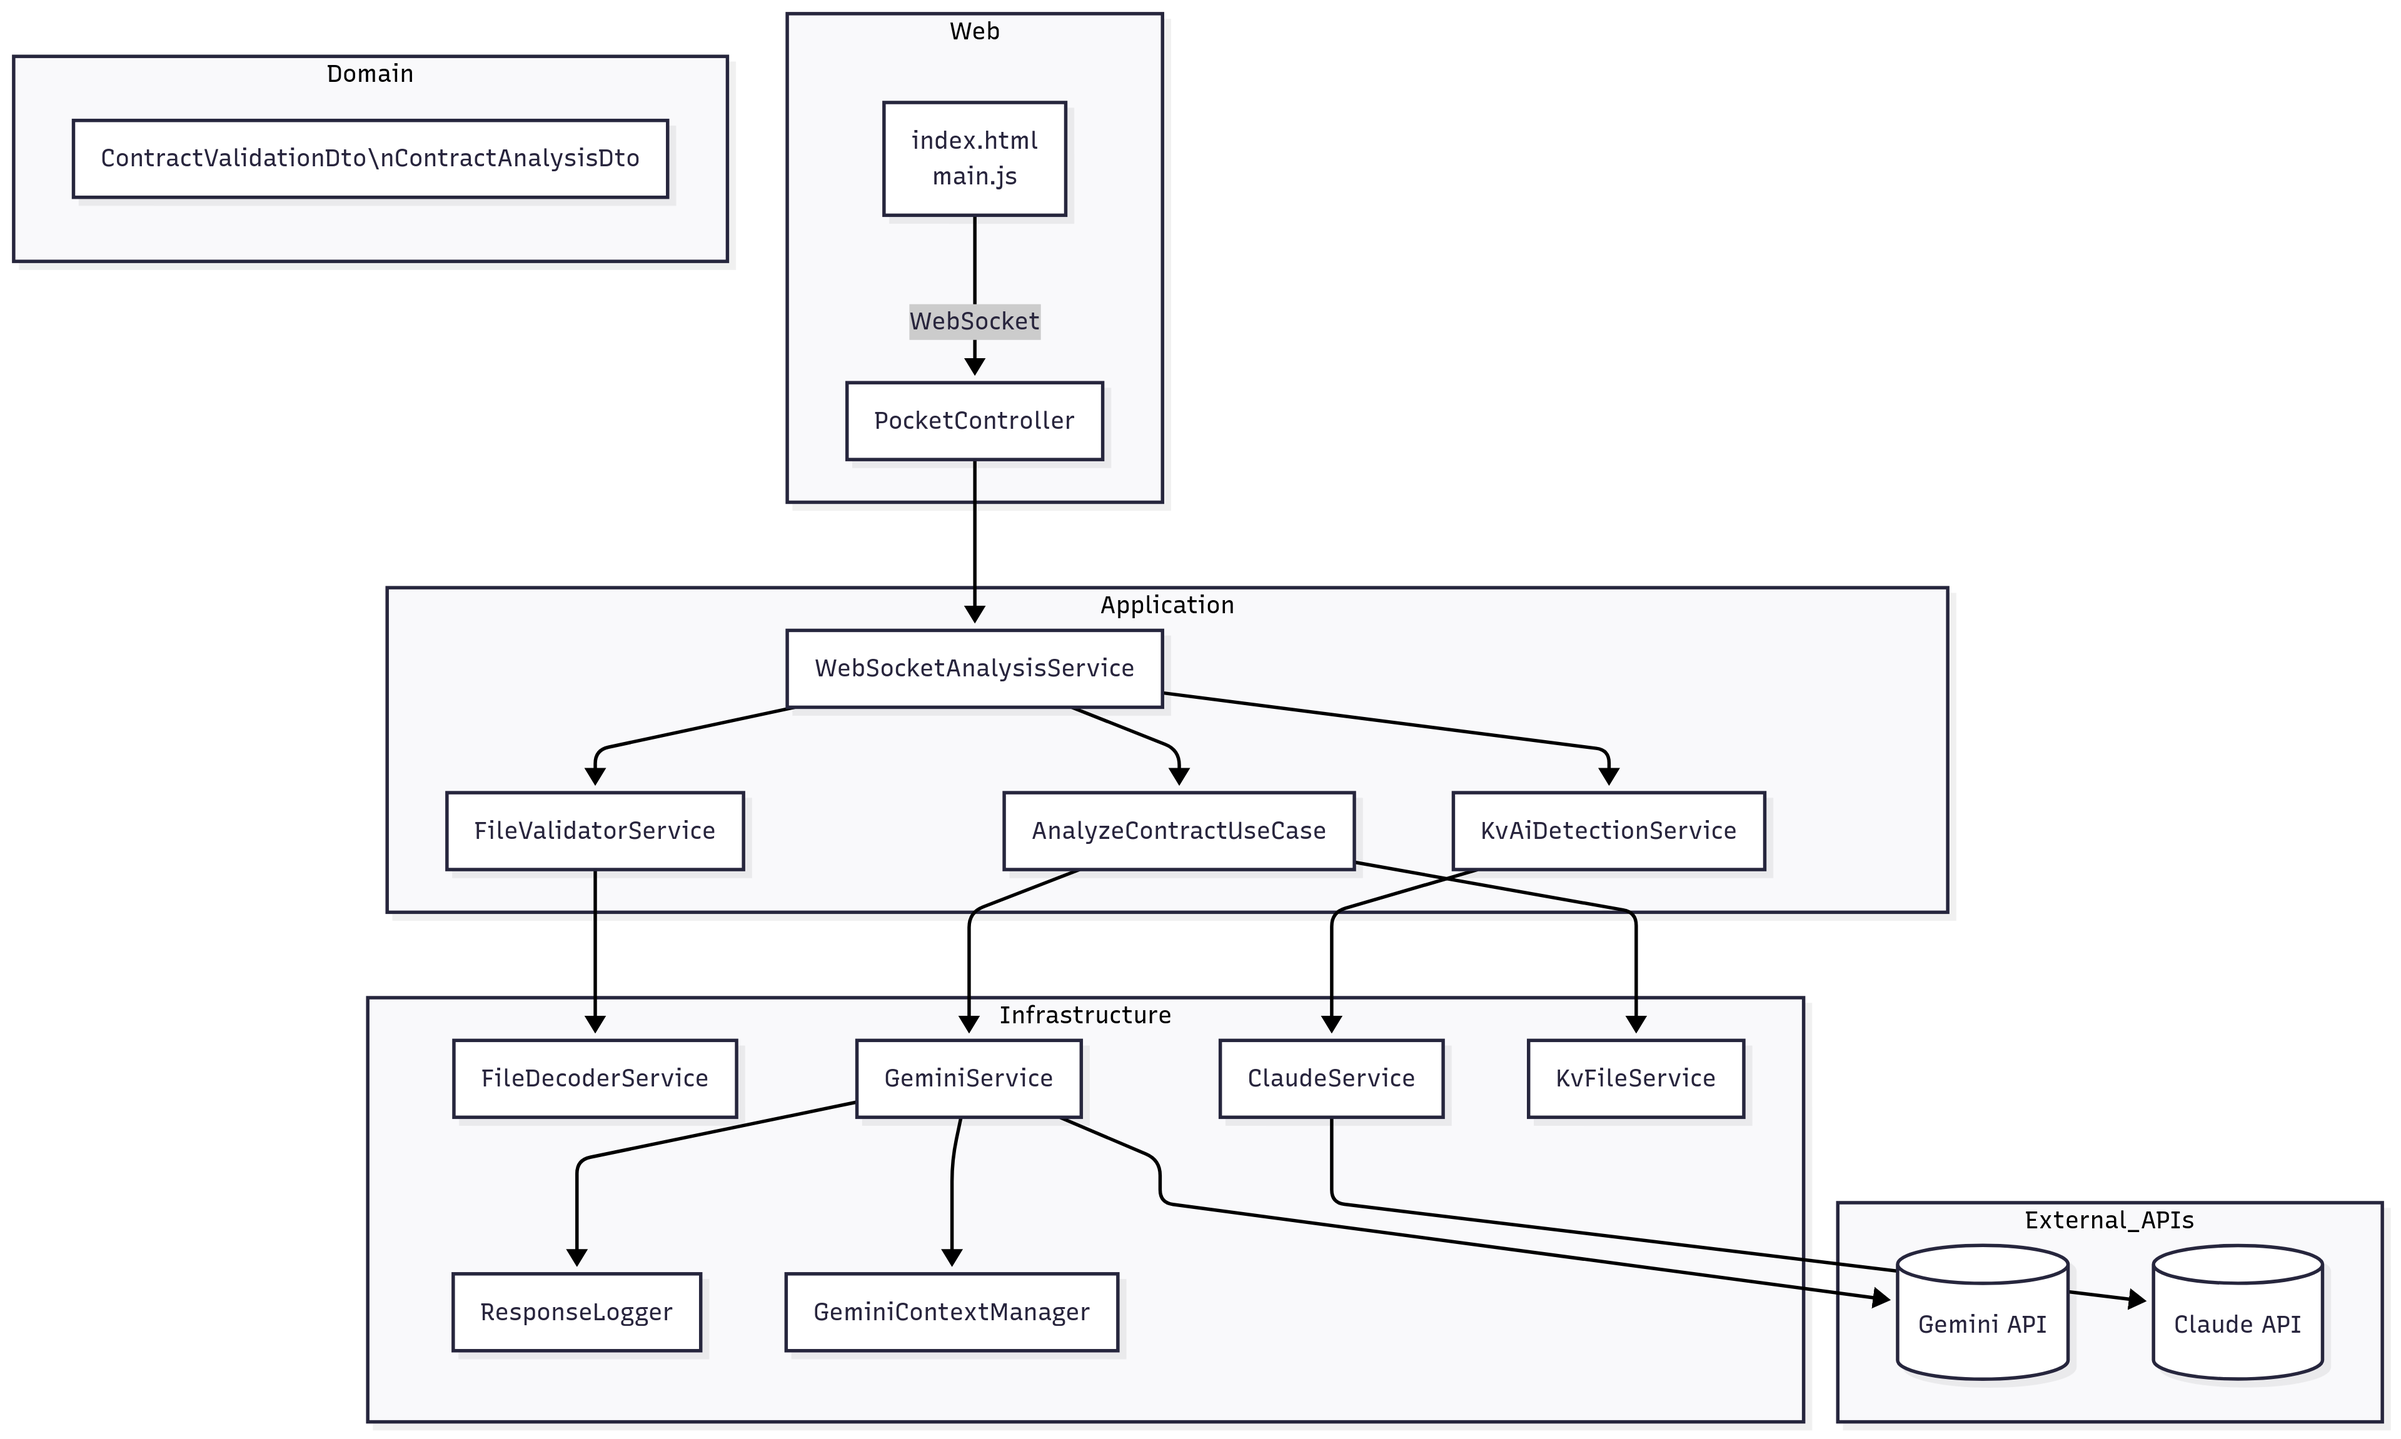
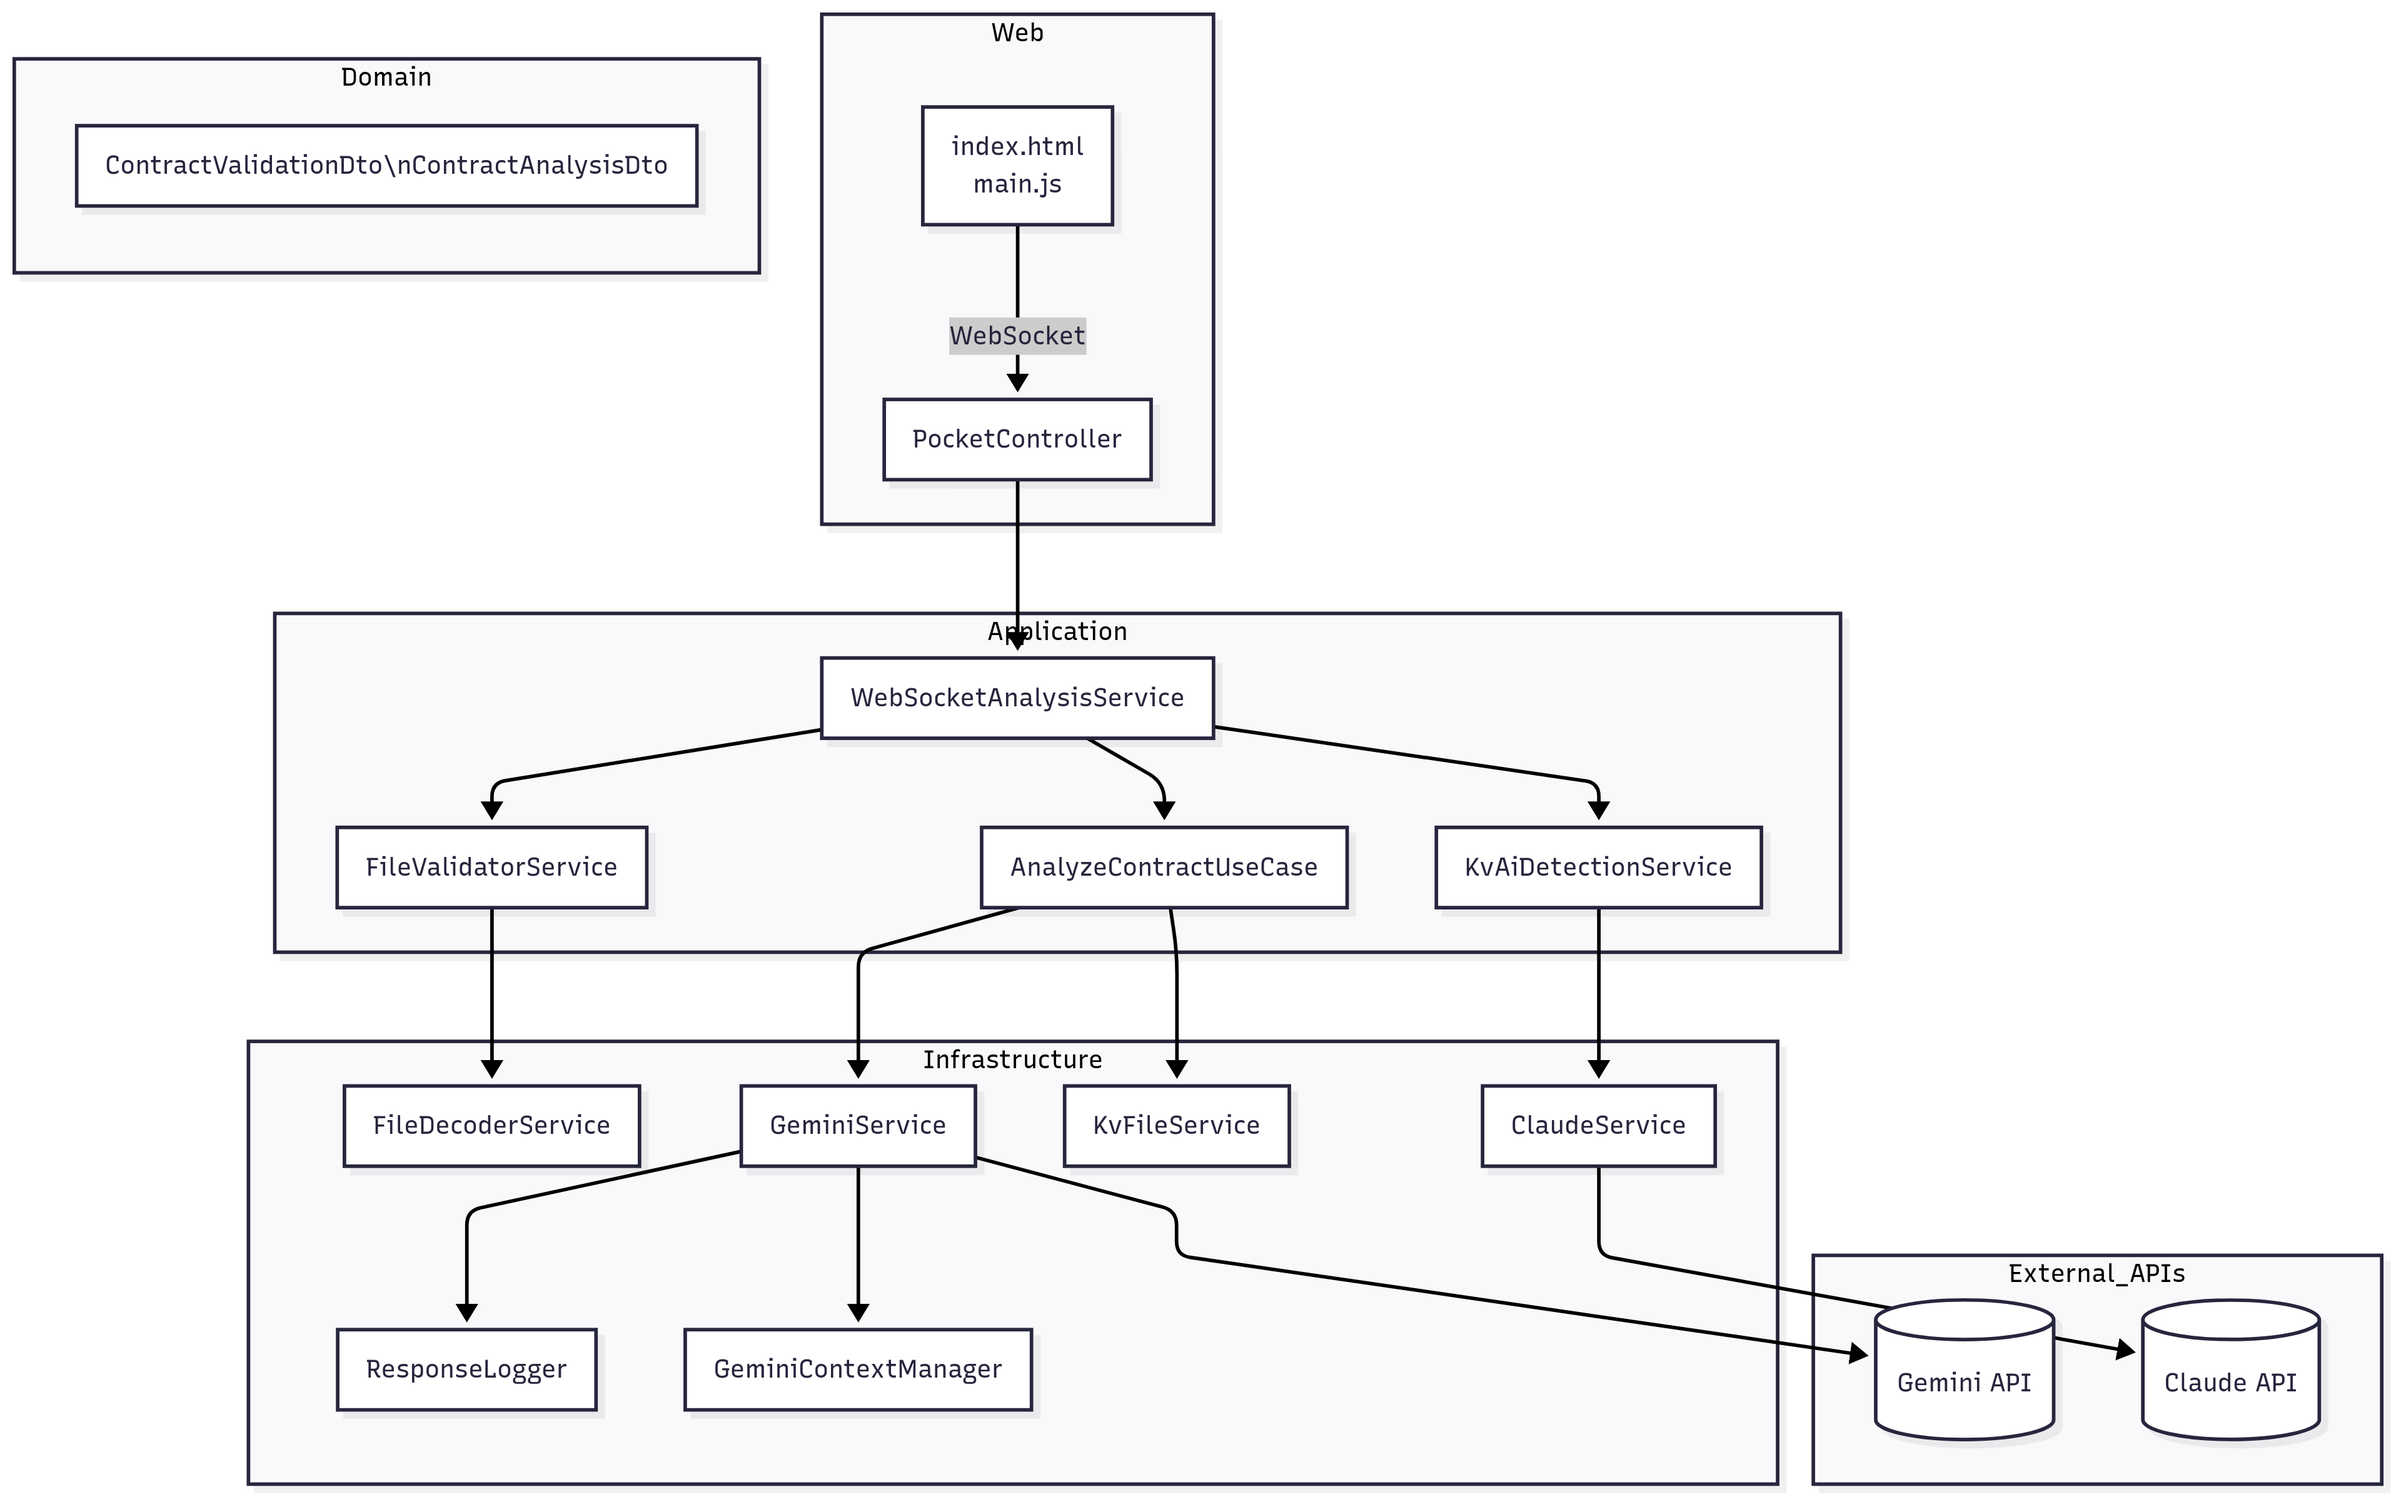
small adjustments

diff --git a/Infrastructure/AiServices/Gemini/GeminiContextManager.cs b/Infrastructure/AiServices/Gemini/GeminiContextManager.cs
@@ -86,7 +86,7 @@ public class GeminiContextManager : IGeminiContextManager
                     }
                 }
             },
-            ttl = "600s"
+            ttl = "300s"
         };
 
         var jsonContent = JsonSerializer.Serialize(context);

diff --git a/docs/Diagrams/diagrams.md b/docs/Diagrams/diagrams.md
@@ -20,8 +20,8 @@ graph TD
     subgraph Infrastructure
         FDS[FileDecoderService]
         GEM[GeminiService]
-        CLA[ClaudeService]
         KFS[KvFileService]
+        CLA[ClaudeService]
         RL[ResponseLogger]
         GCM[GeminiContextManager]
     end
